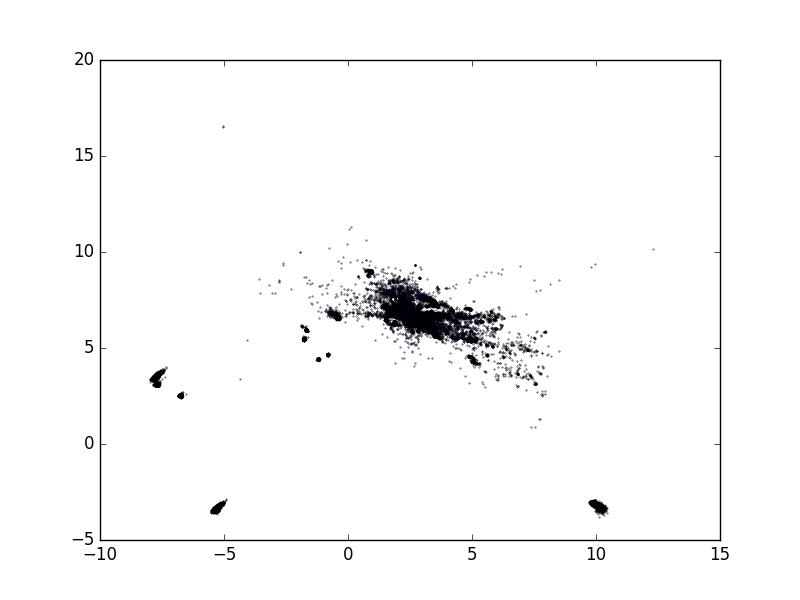
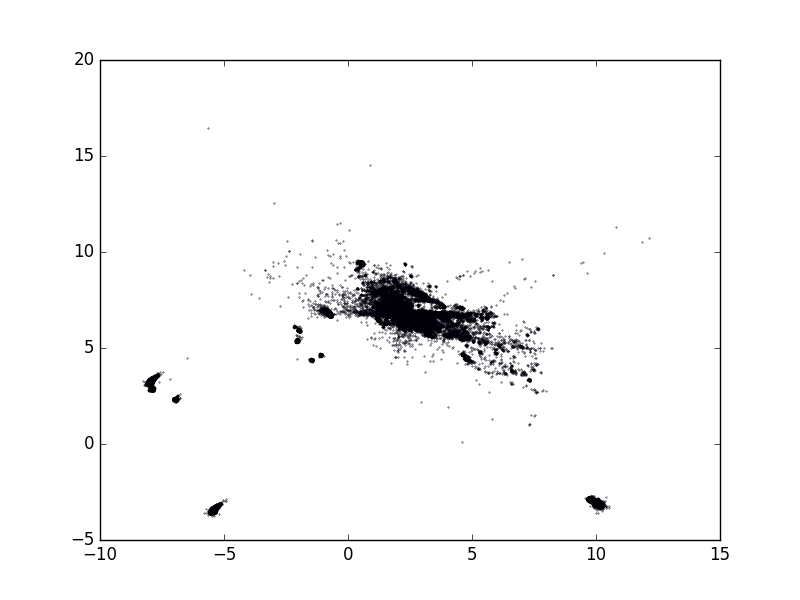
Added scatter plot of subclass-of offsets.

diff --git a/scripts/scatter_plot_subclass_offsets.py b/scripts/scatter_plot_subclass_offsets.py
@@ -2,6 +2,7 @@ import logging
 
 import matplotlib.pyplot as plt
 import numpy
+from sklearn.decomposition import PCA
 
 
 def main():
@@ -9,20 +10,33 @@ def main():
 
     offsets_path = '../data/algorithm_io/subclass_offsets-20161107.csv'
     plot_output = '../data/plots/2d_subclass_offsets.png'
+    max_offset_amount = int(8e5)  # type: int
 
-    xs = list()
-    ys = list()
+    offsets = list()
     c = 0
 
+    logging.log(level=logging.INFO, msg='start loading all offsets')
     with open(offsets_path) as f:
-        for subclass, superclass, coordinates in map(lambda s: s.strip().split(';'), f):
+        for subclass, superclass, offset in map(lambda s: s.strip().split(';'), f):
             # i don't know why i would do this
-            coordinates = numpy.array(coordinates.strip('[').strip(']').strip().split(), dtype=numpy.float32)
-            xs.append(coordinates[0])
-            ys.append(coordinates[1])
+            offset = numpy.array(offset.strip('[').strip(']').strip().split(), dtype=numpy.float32)
+            offsets.append(offset)
             c += 1
-            if c % 500 == 0:
-                logging.log(level=logging.INFO, msg='points already added: {}'.format(c))
+    logging.log(level=logging.INFO, msg='total of {} offsets loaded'.format(c))
+
+    if max_offset_amount != -1:
+        offsets = numpy.random.permutation(numpy.array(offsets))[:max_offset_amount]
+        logging.log(level=logging.INFO, msg='random sampled {} offsets'.format(offsets.shape[0]))
+
+    logging.log(level=logging.INFO, msg='execute pca')
+    pca = PCA(n_components=2)
+    pca.fit(offsets)
+    offsets = pca.transform(offsets)
+    logging.log(level=logging.INFO, msg='completed pca and transformed offsets')
+    logging.log(level=logging.INFO, msg='offsets dimension: {}'.format(offsets.shape))
+
+    xs, ys = offsets.T
+
     logging.log(level=logging.INFO, msg='create plot with {} points'.format(c))
     plt.scatter(xs, ys, s=0.1)
     logging.log(level=logging.INFO, msg='save plot to {}'.format(plot_output))

diff --git a/scripts/compute_subclass_offsets.py b/scripts/compute_subclass_offsets.py
@@ -1,0 +1,46 @@
+import logging
+import time
+
+import gensim
+import numpy
+
+from algorithm.sentence_gen import SentenceIterator
+
+
+def main():
+    logging.basicConfig(format='%(asctime)s : %(levelname)s : %(message)s', level=logging.INFO)
+
+    model_path = '../data/algorithm_io/simple_sentence_model-20161107'
+    triple_sentences_path = '../data/algorithm_io/simple_sentences-20161107.txt'
+    offsets_output_path = '../data/algorithm_io/subclass_offsets-20161107.csv'
+    progress_report_interval = 500
+
+    model = gensim.models.Word2Vec.load(model_path)  # type: gensim.models.Word2Vec
+    model.delete_temporary_training_data()
+
+    c = 0
+    start_time = time.time()
+
+    logging.log(level=logging.INFO, msg='begin offset computation')
+    with open(offsets_output_path, mode='w') as f:
+        for subclass, superclass in map(lambda r: (r[0], r[2]),
+                                        filter(lambda s: s[1] == 'P279',
+                                               SentenceIterator(triple_sentences_path))):
+            try:
+                superclass_vec = model[superclass]
+                subclass_vec = model[subclass]
+            except KeyError as e:
+                logging.log(logging.WARNING, msg='Class not found in vocabulary: {}'.format(e))
+                continue
+            offset = superclass_vec - subclass_vec
+            f.write(';'.join([subclass, superclass, numpy.array2string(offset).replace('\n', ' ')]) + '\n')
+            c += 1
+            if c % progress_report_interval == 0:
+                logging.log(level=logging.INFO, msg='offsets computed: {}'.format(c))
+    duration = time.time() - start_time
+
+    logging.log(level=logging.INFO, msg='computation finished in {} seconds. computed {} offsets'.format(duration, c))
+
+
+if __name__ == '__main__':
+    main()
